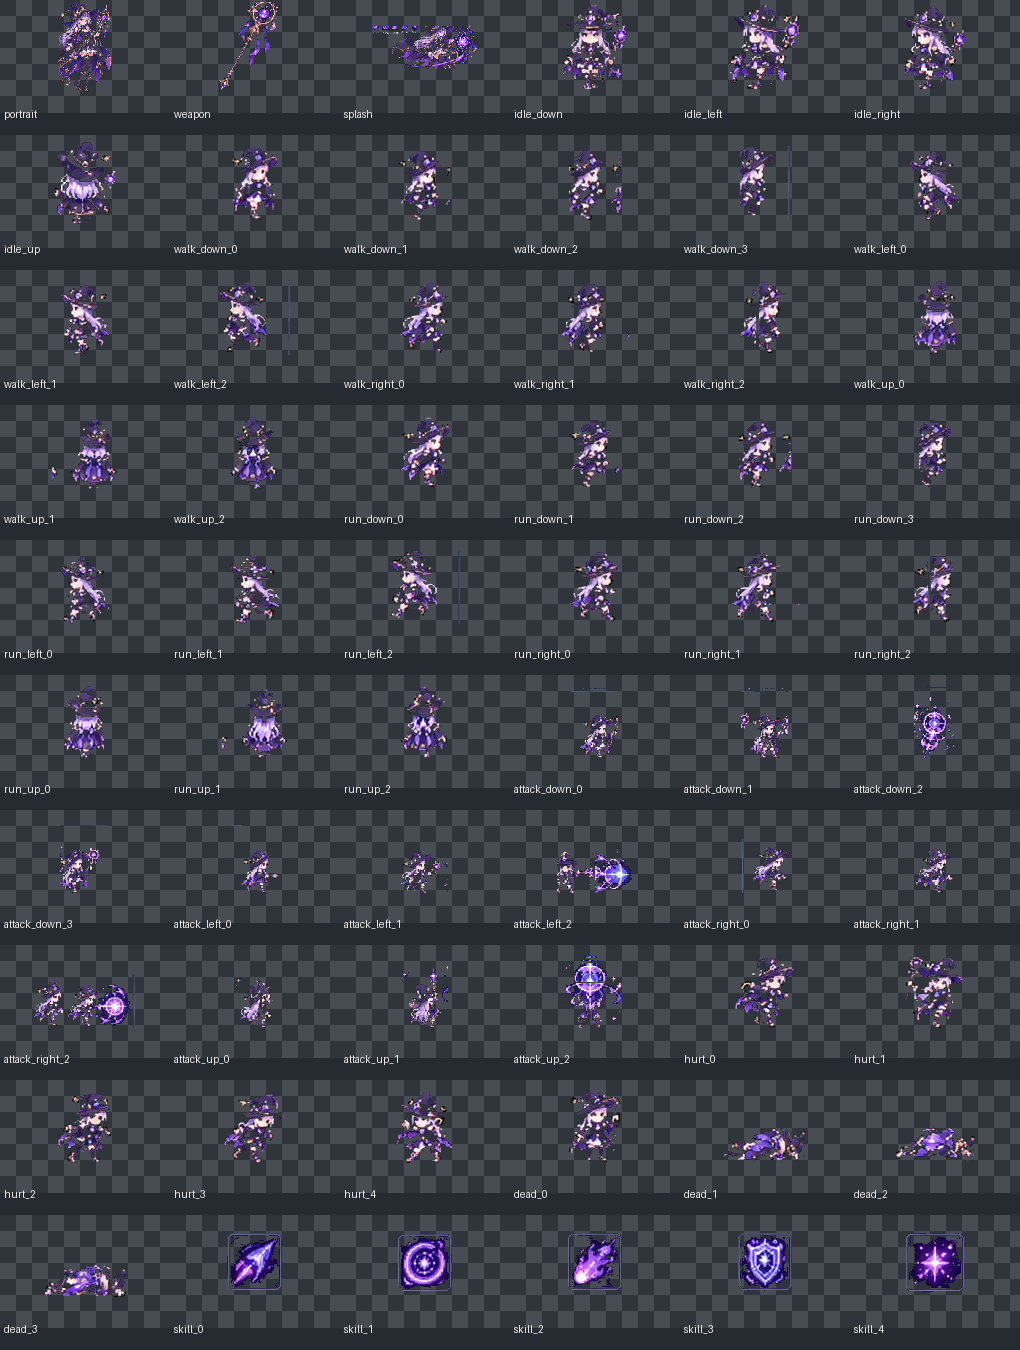
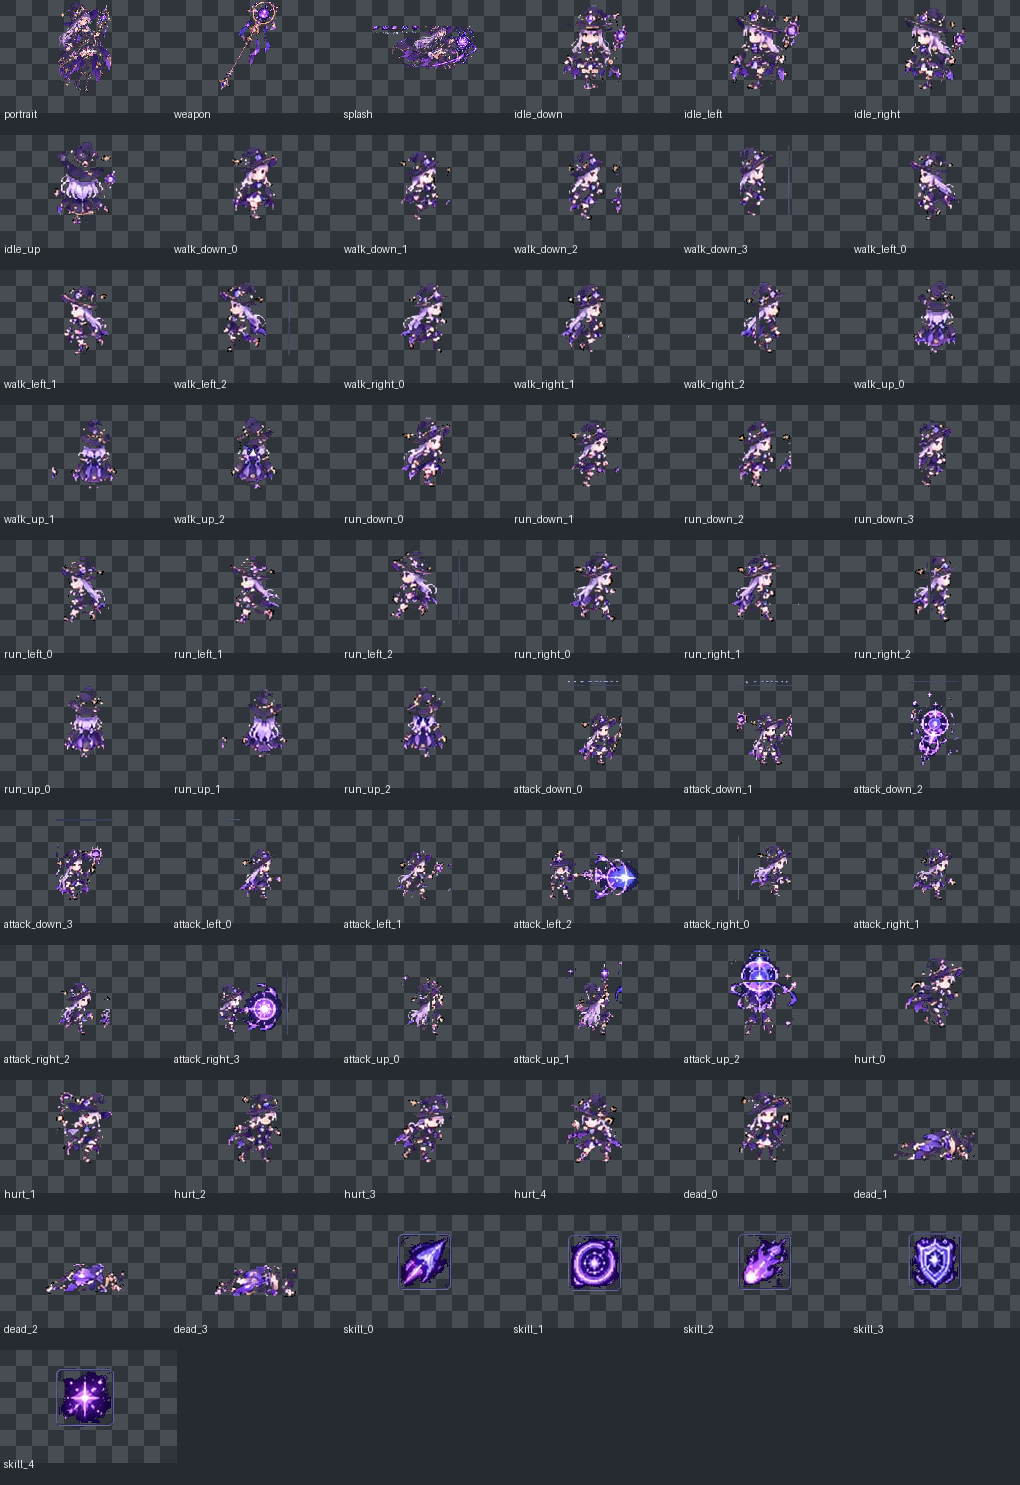
feat: slice the owner's Archer/Mage/Swordsman sheets into sprite frames
tools/slice_character_sheet.py keys out the sheet background and splits
idle/walk/run/attack/hurt/dead frames (attack: down 4, left 3, right 4, up 3),
portrait, splash, weapon and skill icons into assets/characters/<class>/ with
a manifest. Built by Codex over four QA rounds; reviewed by Claude.

Changed region(s): [[0.0, 0.0, 1.0, 0.9956], [0.0, 0.9644, 0.0304, 0.9956]]

diff --git a/tools/slice_character_sheet.py b/tools/slice_character_sheet.py
@@ -33,7 +33,7 @@ CONFIG = {
         # centres.  Effects may cross a midpoint, so the crop is widened by
         # the effect allowance below only when it remains in the same group.
         "attack_centres": ((74, 145, 220, 290), (378, 455, 535),
-                            (668, 752, 830), (1024, 1103, 1180)),
+                            (668, 752, 830, 910), (1024, 1103, 1180)),
     },
     "mage": {
         "sheet": "mage_sheet.jpg", "idle_y": (71, 178), "walk_y": (275, 351),
@@ -47,7 +47,7 @@ CONFIG = {
                    (660, 925, 725, 1000), (725, 925, 790, 1000),
                    (790, 925, 860, 1000)],
         "attack_centres": ((62, 145, 215, 278), (375, 455, 535),
-                            (666, 745, 812), (995, 1080, 1158)),
+                            (666, 745, 812, 900), (995, 1080, 1158)),
     },
     "swordsman": {
         "sheet": "swordsman_sheet.jpg", "idle_y": (74, 181), "walk_y": (291, 366),
@@ -56,7 +56,7 @@ CONFIG = {
         "portrait": (0, 0, 335, 560), "weapon": (30, 995, 220, 1175),
         "splash": (535, 940, 1254, 1254), "skills": [],
         "attack_centres": ((68, 150, 215, 285), (370, 450, 525),
-                            (675, 740, 820), (1000, 1090, 1175)),
+                            (675, 740, 820, 890), (1000, 1090, 1175)),
     },
 }
 GROUPS = (350, 555, 783, 1013, 1230)
@@ -207,6 +207,7 @@ def process(class_name: str, cfg: dict) -> dict:
             manifest["baseline"][animation] = baseline
             offset += frame_count
 
+    attack_counts = (4, 3, 4, 3)
     raw = [trim(source, mask, box)
            for box in attack_boxes(cfg["attack_centres"], cfg["attack_y"])]
     manifest["animations"]["attack"] = {direction: [] for direction in DIRECTIONS}
@@ -218,7 +219,7 @@ def process(class_name: str, cfg: dict) -> dict:
     manifest["baseline"]["attack"] = baseline
     offset = 0
     for di, direction in enumerate(DIRECTIONS):
-        frame_count = direction_counts[di]
+        frame_count = attack_counts[di]
         for i, frame in enumerate(frames[offset:offset + frame_count]):
             name = f"attack_{direction}_{i}"
             save(name, frame)
